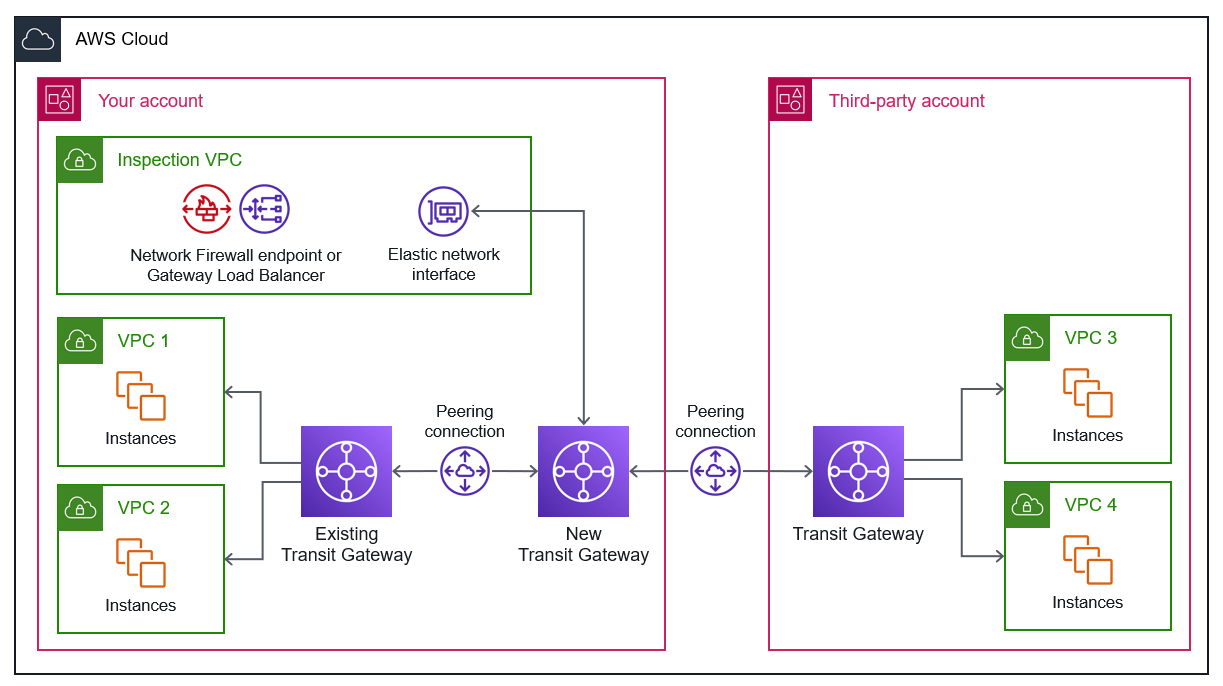
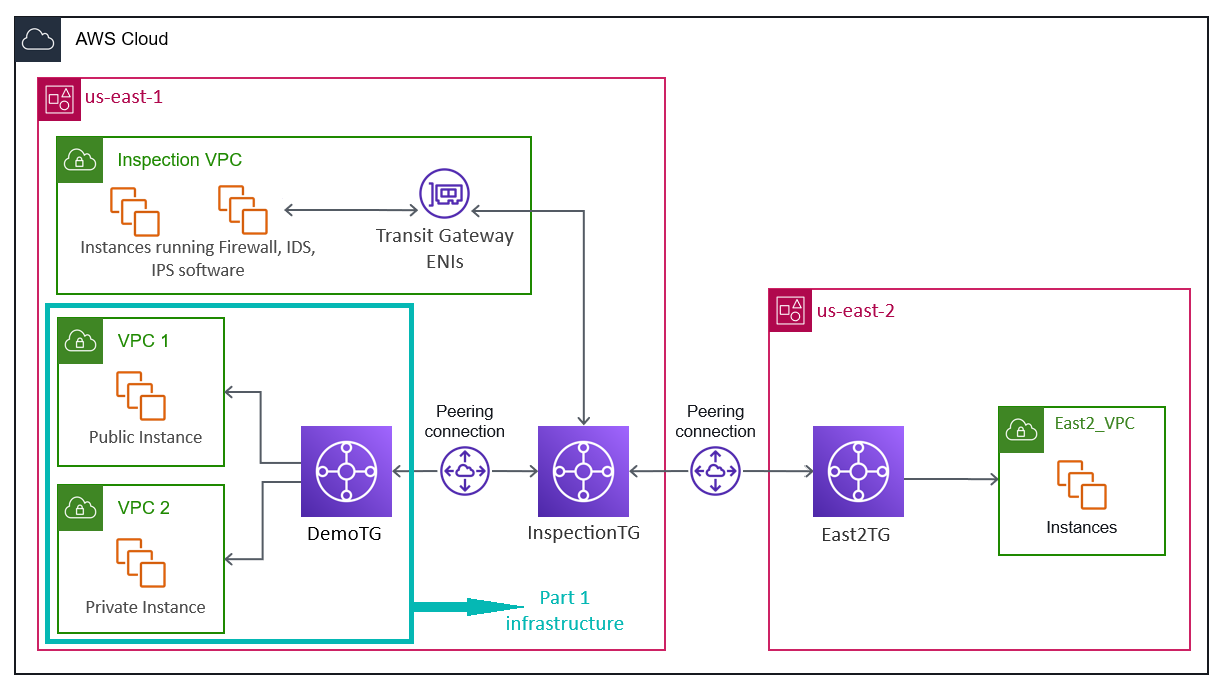
rewritting separate READMEs, some fixes

diff --git a/README.md b/README.md
@@ -1,21 +1,121 @@
-# Terraform and Transit Gateway Demo
+# AWS Transit Gateway Demo with Terraform
 
-Terraform configuration for connecting two AWS VPCs using a Transit Gateway, as described in my [LinkedIn article](https://www.linkedin.com/pulse/connect-two-aws-vpcs-terraform-transit-gateway-guide-jovanovski-pte0f/?trackingId=RZfA4FnTRC%2BsGqjIFmL33g%3D%3D).
+A comprehensive Terraform project demonstrating AWS Transit Gateway connectivity patterns, from basic VPC-to-VPC communication to advanced cross-region traffic inspection architecture.
 
-## Files
-- main.tf: Defines VPCs, EC2 instances, and Transit Gateway.
-- output.tf: Outputs resource IDs and IPs.
-- .gitignore: Excludes Terraform state files and sensitive data.
+## Project Overview
 
-## Usage
-1. Follow my [LinkedIn article](https://www.linkedin.com/pulse/connect-two-aws-vpcs-terraform-transit-gateway-guide-jovanovski-pte0f/?trackingId=RZfA4FnTRC%2BsGqjIFmL33g%3D%3D) to set up IAM roles, access keys, and a key pair.
-2. Download main.tf and output.tf from this repository.
-3. Update main.tf with your values for key_name = "Key's name" (lines 84 & 154) and iam_instance_profile = "Role's name" (line 87).
-4. Run terraform init, terraform plan, and terraform apply.
+This project consists of two progressive parts that build upon each other:
 
-## Requirements
-- Setup Visual Studio Code
-- Terraform v1.0 or later
-- AWS account with credentials configured
-- Key pair named "Key's name"
-- IAM role named "Role's name" with AmazonSSMManagedInstanceCore policy
+- **Part 1**: Basic Transit Gateway connecting two VPCs in the same region
+- **Part 2**: Advanced inspection VPC with cross-region connectivity and appliance mode
+
+## Architecture
+
+### Part 1: Basic Transit Gateway
+
+- **First VPC** (10.0.0.0/24): Public VPC with internet gateway and EC2 instance
+- **Second VPC** (20.0.0.0/24): Private VPC with EC2 instance
+- **Transit Gateway**: Connects both VPCs for inter-VPC communication
+
+### Part 2: Advanced Inspection Architecture
+
+- **Inspection VPC** (30.0.0.0/24): Traffic inspection with appliance mode in us-east-1
+- **East2 VPC** (40.0.0.0/24): Cross-region VPC in us-east-2
+- **Multiple Transit Gateways**: Cross-region peering with traffic inspection flow
+
+## Traffic Flow (Complete Architecture)
+
+```
+us-east-2 VPC → East2 TGW → Cross-Region Peering → Inspection TGW → Inspection VPC → Demo TGW → Original VPCs
+```
+
+## Prerequisites
+
+- **AWS CLI** configured with appropriate credentials (access key and secret access key)
+- **Terraform** v1.0 or later
+- **AWS Account** with permissions to create VPCs, Transit Gateways, and EC2 instances
+- **SSH Key Pairs** created in both us-east-1 and us-east-2 regions (for Part 2)
+
+## Deployment
+
+⚠ **Important**: Part 2 depends on Part 1 infrastructure and **cannot be deployed independently**.
+
+## Project Structure
+
+```
+terraform-transit-gateway-demo/
+├── README.md                                          # This file
+├── part-1-basic-tgw-with-two-vpcs/
+│   ├── README.md                                      # Part 1 instructions
+│   ├── main.tf                                        # Basic TGW infrastructure
+│   ├── variables.tf                                   # Part 1 variables
+│   ├── output.tf                                      # Part 1 outputs
+│   └── terraform.tfvars                               # Part 1 configuration
+└── part-2-inspection-vpc-and-cross-region-peering/
+    ├── README.md                                      # Part 2 instructions
+    ├── main.tf                                        # Advanced inspection architecture
+    ├── variables.tf                                   # Part 2 variables
+    ├── output.tf                                      # Part 2 outputs
+    └── terraform.tfvars                               # Part 2 configuration
+```
+
+## Key Features
+
+### Part 1 Features
+
+- Basic Transit Gateway connectivity
+- Public and private VPC setup
+- Internet gateway for SSM accessibility
+- Security groups for controlled access
+
+### Part 2 Features
+
+- **Appliance Mode**: Ensures AZ affinity for stateful security appliances
+- **Cross-Region Connectivity**: us-east-2 VPC connects to East2 TGW, which peers with Inspection TGW via cross-region peering
+- **Traffic Inspection**: All inter-region traffic passes through inspection appliances
+- **Multi-AZ Deployment**: Inspection appliances across two availability zones
+- **Complex Routing**: Custom route tables for traffic flow control
+
+## Network Configuration
+
+### CIDR Blocks
+
+- **First VPC**: 10.0.0.0/24 (us-east-1)
+- **Second VPC**: 20.0.0.0/24 (us-east-1)
+- **Inspection VPC**: 30.0.0.0/24 (us-east-1) - Part 2 only
+- **East2 VPC**: 40.0.0.0/24 (us-east-2) - Part 2 only
+
+### Regions
+
+- **Primary Region**: us-east-1
+- **Secondary Region**: us-east-2 (Part 2 only)
+
+## Cost Considerations
+
+### Part 1 Costs
+
+- 1 Transit Gateway
+- 2 VPC attachments
+- 2 EC2 t2.micro instances
+- Standard data transfer charges
+
+### Part 2 Additional Costs
+
+- 2 additional Transit Gateways
+- 1 cross-region Transit Gateway peering connection
+- 2 additional VPC attachments
+- 3 additional EC2 t2.micro instances
+- Cross-region data transfer charges
+
+## Testing
+
+- **Part 1**: Inter-VPC communication through Transit Gateway
+- **Part 2**: Cross-region traffic flow through inspection appliances
+
+## Cleanup
+
+⚠ **Important**: Always destroy in reverse order (Part 2 before Part 1) due to dependencies.
+
+## License
+
+MIT License - see LICENSE file for details.

diff --git a/part-2-inspection-vpc-and-cross-region-peering/README.md b/part-2-inspection-vpc-and-cross-region-peering/README.md
@@ -1,0 +1,35 @@
+# Part 2: Advanced Transit Gateway with Inspection VPC
+
+Advanced Terraform configuration extending Part 1 with cross-region connectivity and traffic inspection architecture, as described in my [LinkedIn article]().
+
+## Files
+
+- main.tf: Defines inspection VPC, cross-region setup, and multiple Transit Gateways.
+- variables.tf: Variable definitions for Part 2 configuration.
+- output.tf: Outputs resource IDs and IPs for Part 2 resources.
+- terraform.tfvars: Configuration values for regions and key pairs.
+
+## Usage
+
+1. **Deploy [Part 1](https://www.linkedin.com/pulse/connect-two-aws-vpcs-terraform-transit-gateway-guide-jovanovski-pte0f/?trackingId=T8jVXOI%2FAReIQOSOqyRO%2Bg%3D%3D) first** - Part 2 cannot be deployed independently.
+2. Follow the LinkedIn article for detailed setup instructions.
+3. Update terraform.tfvars with your key pair name (must exist in both us-east-1 and us-east-2).
+4. Run terraform init, terraform plan, and terraform apply.
+
+## Requirements
+
+- **Part 1 successfully deployed** and Transit Gateway "DemoTG" available
+- Terraform v1.0 or later
+- AWS CLI configured with credentials
+- Key pair in us-east-1 region (can reuse from Part 1)
+- Key pair in us-east-2 region (new requirement)
+- Multi-region permissions in AWS account
+
+## Architecture
+
+- **Inspection VPC** (30.0.0.0/24): Traffic inspection with appliance mode in us-east-1
+- **East2 VPC** (40.0.0.0/24): Cross-region VPC in us-east-2
+- **3 Transit Gateways**: Demo TGW, Inspection TGW, and East2 TGW
+- **Cross-region peering**: Between Inspection TGW and East2 TGW
+- **Traffic flow**: All inter-region traffic passes through inspection appliances
+  _steps explained in the LinkedIn article_

diff --git a/part-1-basic-tgw-with-two-vpcs/README.md b/part-1-basic-tgw-with-two-vpcs/README.md
@@ -3,17 +3,20 @@
 Terraform configuration for connecting two AWS VPCs using a Transit Gateway, as described in my [LinkedIn article](https://www.linkedin.com/pulse/connect-two-aws-vpcs-terraform-transit-gateway-guide-jovanovski-pte0f/?trackingId=RZfA4FnTRC%2BsGqjIFmL33g%3D%3D).
 
 ## Files
+
 - main.tf: Defines VPCs, EC2 instances, and Transit Gateway.
 - output.tf: Outputs resource IDs and IPs.
 - .gitignore: Excludes Terraform state files and sensitive data.
 
 ## Usage
+
 1. Follow my [LinkedIn article](https://www.linkedin.com/pulse/connect-two-aws-vpcs-terraform-transit-gateway-guide-jovanovski-pte0f/?trackingId=RZfA4FnTRC%2BsGqjIFmL33g%3D%3D) to set up IAM roles, access keys, and a key pair.
 2. Download main.tf and output.tf from this repository.
 3. Update main.tf with your values for key_name = "Key's name" (lines 84 & 154) and iam_instance_profile = "Role's name" (line 87).
 4. Run terraform init, terraform plan, and terraform apply.
 
 ## Requirements
+
 - Setup Visual Studio Code
 - Terraform v1.0 or later
 - AWS account with credentials configured
